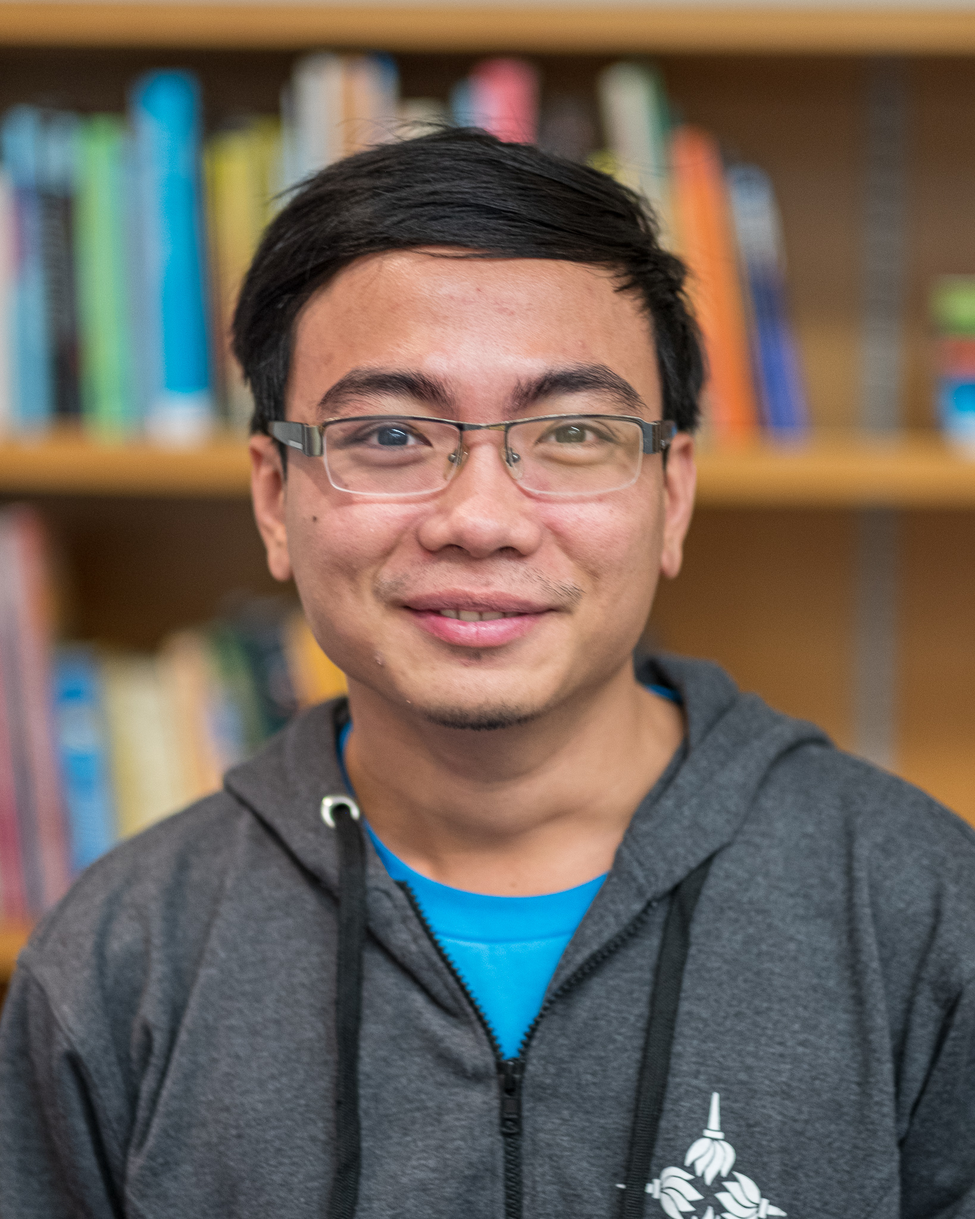
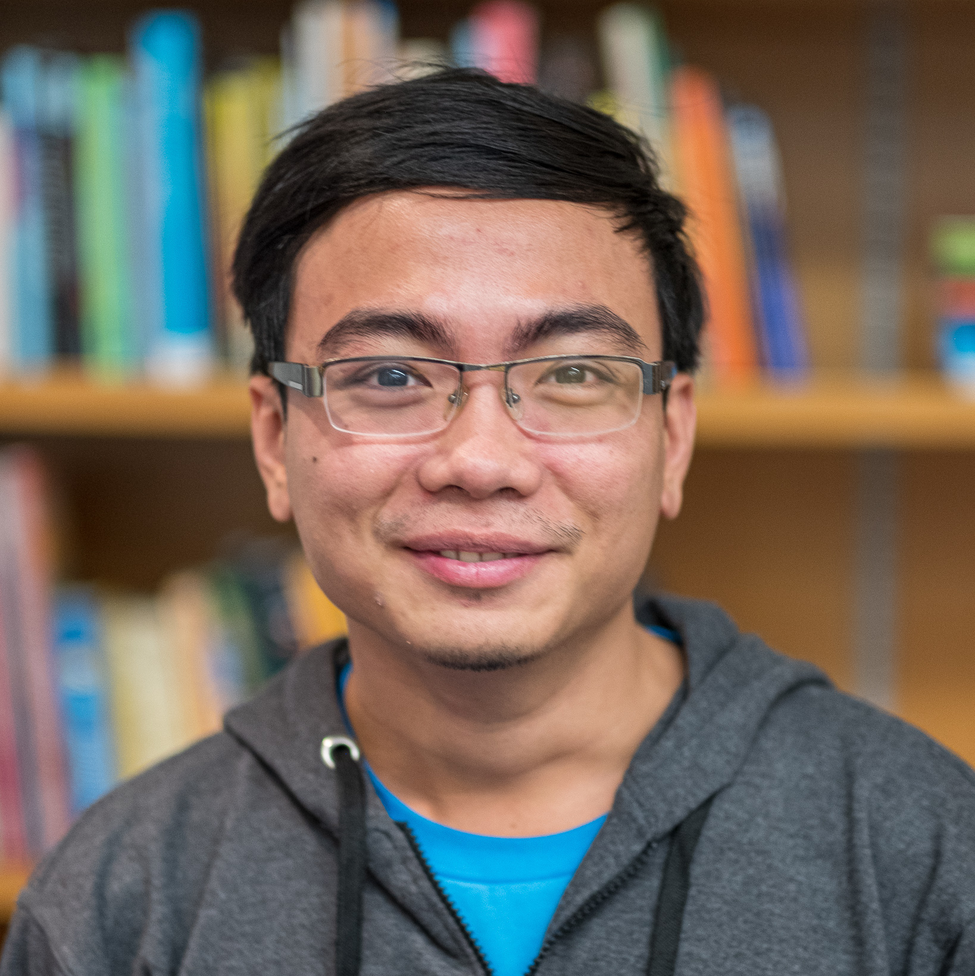
website update

diff --git a/projects.js b/projects.js
@@ -2,6 +2,7 @@ var projects = [
     {
         id: 14,
         title: "Synner",
+        status: "active",
         subtitle: "Generating Realistic Synthetic Data",
         authors: ["Miro Mannino", "Azza Abouzied"],
         members: [0, 3, 6, 7, 10, 14],
@@ -37,6 +38,7 @@ var projects = [
     },
     {
         id: 13,
+        status: "active",
         title: "Scalable Package Queries",
         subtitle: "Scaling package queries over probabilistic databases",
         authors: ["Matteo Brucato", "Peter Haas", "Alexandra Meliou", "Azza Abouzied"],
@@ -71,6 +73,7 @@ var projects = [
     },
     {
         id: 16,
+        status: "archive",
         title: "Texture",
         subtitle: "A Collaborative Framework for Structure Identification over Print Documents",
         authors: ["Maeda Hanafi", "Miro Mannino", "Azza Abouzied"],
@@ -92,6 +95,7 @@ var projects = [
 
     {
         id: 12,
+        status: "archive",
         title: "Qetch",
         subtitle: "Expressive Time Series Querying with Hand-Drawn Scale-Free Sketches",
         authors: ["Miro Mannino", "Azza Abouzied"],
@@ -121,6 +125,7 @@ var projects = [
     },
     {
         id: 11,
+        status: "archive",
         title: "SEER",
         subtitle: "Auto-Generating Information Extraction Rules from User-Specified Examples.",
         authors: ["Maeda Hanafi", "Azza Abouzied", "Laura Chiticariu", "Yunyao Li"],
@@ -158,26 +163,27 @@ var projects = [
     teaserpic: "images/projects/health-diagnosis.png",
     thumbnail: "images/projects/health-diagnosis-thumb.png"
 },
-    {
-        id: 9,
-        title: "Teaching Query Languages",
-        subtitle: "Using Visual Query Plans and Data to Explain Relational and Graph Queries",
-        authors: ["Yousra Hassan", "Miro Mannino", "Azza Abouzied", "Semih Salihoglu"],
-        links: [
-            {
-                txt: "Tech Report Available on Request",
-                ref: "mailto:azza@nyu.edu"
-            },
-        ],
-        abstract: "We build an educational tool to help students understand relational (SQL) and graph (SPARQL) query language students. The tool creates interactive query plan visualizations and demonstrates the behavior of query operators through intermediate results. The tool integrates into Jupyter Notebook to allow educators to utilize our tool within a commonly used teaching and code-demonstration framework.",
-        teaserpic: "images/projects/queryplan-full.png",
-        thumbnail: "images/projects/queryplan.png"
-    },
+    // {
+    //     id: 9,
+    //     title: "Teaching Query Languages",
+    //     subtitle: "Using Visual Query Plans and Data to Explain Relational and Graph Queries",
+    //     authors: ["Yousra Hassan", "Miro Mannino", "Azza Abouzied", "Semih Salihoglu"],
+    //     links: [
+    //         {
+    //             txt: "Tech Report Available on Request",
+    //             ref: "mailto:azza@nyu.edu"
+    //         },
+    //     ],
+    //     abstract: "We build an educational tool to help students understand relational (SQL) and graph (SPARQL) query language students. The tool creates interactive query plan visualizations and demonstrates the behavior of query operators through intermediate results. The tool integrates into Jupyter Notebook to allow educators to utilize our tool within a commonly used teaching and code-demonstration framework.",
+    //     teaserpic: "images/projects/queryplan-full.png",
+    //     thumbnail: "images/projects/queryplan.png"
+    // },
     {
         id: 8,
+        status: "active",
         title: "Epidemic Interventions",
-        subtitle: "Epidemic Policy Optimizations to Control Epidemic Outbreaks",
-        authors: ["Anh Mai","Dennis Shasha", "Azza Abouzied"],
+        subtitle: "Policy Optimization to Control Epidemic Outbreaks",
+        authors: ["Anh Mai", "Zain Tariq", "Dennis Shasha", "Azza Abouzied"],
         links: [
             {
                 txt: "Tech Report Available on Request",
@@ -187,5 +193,70 @@ var projects = [
         abstract: "In a stochastic partially-observable environment, an agent faces the dilemma of exploration and exploitation to make a decision in order to optimize a particular reward function. Policy optimization maps a certain state of environment to a decision that optimizes the outcome of the environment. Various attempts have been made in devising such policy using well-known techniques such as Partially Observable Markov Decision Process (POMDP) or Monte Carlo Tree Search (MCTS). Using these techniques, we hope to find an algorithm to approximate an optimal policy in a simulated epidemic scenario. We focus on influenza pandemics on the US popu- lation.",
         teaserpic: "images/projects/epidemic-intervention.png",
         thumbnail: "images/projects/epidemic-intervention-thumb.png"
-    }
+    },
+    {
+        id: 21,
+        status: "active",
+        title: "Hill and Dale",
+        subtitle: "Streaming queries with AQuery",
+        authors: ["Ahmad Chatha", "Kostas Zoumbatianos", "Dennis Shasha", "Azza Abouzied"],
+        links: [
+            {
+                txt: "Tech Report Available on Request",
+                ref: "mailto:azza@nyu.edu"
+            },
+        ],
+        abstract: "",
+        teaserpic: "",
+        thumbnail: ""
+    },
+    {
+        id: 23,
+        status: "active",
+        title: "Validating Generative Models",
+        subtitle: "Evaluating the realism of synthetic data sets generated by GANs and language models",
+        authors: ["Miro Mannino", "Ofer Mendelevitch", "Azza Abouzied"],
+        links: [
+            {
+                txt: "Tech Report Available on Request",
+                ref: "mailto:azza@nyu.edu"
+            },
+        ],
+        abstract: "",
+        teaserpic: "",
+        thumbnail: ""
+    },
+    {
+        id: 9,
+        status: "active",
+        title: "Impact3D",
+        subtitle: "Visualizing the impact of Charitable Donations with Augmented Reality",
+        authors: ["Lauren McMillen", "Azza Abouzied"],
+        links: [
+            {
+                txt: "Tech Report Available on Request",
+                ref: "mailto:azza@nyu.edu"
+            },
+        ],
+        abstract: "",
+        teaserpic: "",
+        thumbnail: ""
+    },
+    {
+        id: 17,
+        status: "active",
+        title: "CREST",
+        subtitle: "A Collaborative Real Estate Search Tool",
+        authors: ["Junior Garcia", "Azza Abouzied"],
+        links: [
+            {
+                txt: "Tech Report Available on Request",
+                ref: "mailto:azza@nyu.edu"
+            },
+        ],
+        abstract: "",
+        teaserpic: "",
+        thumbnail: ""
+    },
+
 ];

diff --git a/index.html b/index.html
@@ -28,13 +28,17 @@
         var display_members = function(){
             var o = '<div class = "members">';
             $.each(members, function (i, d) {
-                if(d.type != "undergrad" || d.year > 2019)
+                if(d.type == "RA" || d.type == "PI" || d.year > 2020)
                     o += toImage(d);
             });
             o += '</div>';
             o += '<div> Past Students </div><div><ul>';
             $.each(members, function (i, d) {
-                if(d.type == "undergrad" && d.year <= 2019)
+                if(d.type == "phd" && d.year <= 2020)
+                    o += '<li><strong>Phd Graduate:</strong> Dr. ' + d.name + '</li>';
+            });
+            $.each(members, function (i, d) {
+                if(d.type == "undergrad" && d.year <= 2020)
                     o += '<li>' + d.name + '</li>';
             });
             o += '</ul></div>';
@@ -44,23 +48,47 @@
         var display_projects = function(){
             var o = '<div class = "projects">';
             $.each(projects, function (i, d) {
-                var p = '<div class="project">'
-                    + '<div class="project-image" style="border-color: whitesmoke">'
-                    + '<a href="project.html?project-id=' + d.id + '"><img class="project-img" src="' + d.thumbnail + '"></a>'
-                    + '</div>'
-                    + '<div class="project-content">'
-                    + '<div class="project-title">' + d.title + "</div>"
-                    + d.subtitle
-                    + '<div class="authors">' + d.authors[0].substring(d.authors[0].indexOf(" "));
-                $.each(d.authors, function(i,a){
-                    p += ((i > 0)? ", " + a.substring(a.indexOf(" ")): "");
-                });
-                p += "</div>"
-                    + '</div>'
-                    + '</div>';
-                o += p;
+                if(d.status == "active") {
+                    var p = '<div class="project">'
+                        + '<div class="project-image" style="border-color: white">'
+                        + '<a href="project.html?project-id=' + d.id + '"><img class="project-img" src="' + d.thumbnail + '"></a>'
+                        + '</div>'
+                        + '<div class="project-content">'
+                        + '<div class="project-title">' + d.title + "</div>"
+                        + d.subtitle
+                        + '<div class="authors">' + d.authors[0].substring(d.authors[0].indexOf(" "));
+                    $.each(d.authors, function (i, a) {
+                        p += ((i > 0) ? ", " + a.substring(a.indexOf(" ")) : "");
+                    });
+                    p += "</div>"
+                        + '</div>'
+                        + '</div>';
+                    o += p;
+                }
             });
             o += '</div>';
+            o += '<dIV class = "projects"> <h3>ARCHIVE</h3> <BR>';
+            $.each(projects, function (i, d) {
+                if(d.status == "archive") {
+                    var p = '<div class="project">'
+                        + '<div class="project-image" style="border-color: whitesmoke">'
+                        + '<a href="project.html?project-id=' + d.id + '">'
+                        +  (d.thumbnail != "" ? '<img class="project-img" src="' + d.thumbnail + '">' : '') + '</a>'
+                        + '</div>'
+                        + '<div class="project-content">'
+                        + '<div class="project-title">' + d.title + "</div>"
+                        + d.subtitle
+                        + '<div class="authors">' + d.authors[0].substring(d.authors[0].indexOf(" "));
+                    $.each(d.authors, function (i, a) {
+                        p += ((i > 0) ? ", " + a.substring(a.indexOf(" ")) : "");
+                    });
+                    p += "</div>"
+                        + '</div>'
+                        + '</div>';
+                    o += p;
+                }
+            });
+            o += '</div>'
             $('#projects').html(o);
         };
 

diff --git a/members.js b/members.js
@@ -19,15 +19,35 @@ var members =  [
         type: "RA"
     },
     {
-        id: 20,
-        name: "Hashim Hayat",
+        id: 4,
+        name: "Anh Mai",
         title: "Research Assistant",
-        type: "RA",
-        year: "2020",
-        image: "images/members/hashim.jpg",
-        email: "hh1316@nyu.edu",
-        website: "https://hashimhayat.com",
+        image: "images/members/anh.jpg",
+        email: "alm818@nyu.edu",
+        website: "",
+        year: 2020,
+        type : "RA"
     },
+    {
+        id: 21,
+        name: "Zain Tariq",
+        title: "Research Assistant",
+        image: "images/members/zain.jpg",
+        email: "zain.tariq@nyu.edu",
+        website: "",
+        year: 2020,
+        type : "RA"
+    },
+    // {
+    //     id: 20,
+    //     name: "Hashim Hayat",
+    //     title: "Research Assistant",
+    //     type: "RA",
+    //     year: "2020",
+    //     image: "images/members/hashim.jpg",
+    //     email: "hh1316@nyu.edu",
+    //     website: "https://hashimhayat.com",
+    // },
     {
         id: 2,
         name: "Ahmad S Chatha",
@@ -42,7 +62,7 @@ var members =  [
         id: 19,
         name: "Matteo Brucato",
         title: "PhD Candidate - UMass",
-        year: "2020",
+        year: "2021",
         type: "phd",
         image: "images/members/matteo.png",
         email: "matteo@cs.umass.edu",
@@ -58,15 +78,24 @@ var members =  [
         email: "mh4047@nyu.edu",
         website: "https://maeda.herokuapp.com/",
     },
+
     {
-        id: 4,
-        name: "Anh Mai",
+      id: 19,
+      name: "Junior Garcia",
+      title: "Student Researcher",
+      image: "images/members/junior.jpg",
+      email: "jfg388@nyu.edu",
+      year: 2021,
+      type: "undergrad",
+    },
+    {
+        id: 20,
+        name: "Lauren McMillen",
         title: "Student Researcher",
-        image: "images/members/anh.jpg",
-        email: "alm818@nyu.edu",
-        website: "",
-        year: 2020,
-        type : "undergrad"
+        image: "images/members/lauren.jpg",
+        email: "lm3623@nyu.edu",
+        year: 2021,
+        type: "undergrad",
     },
     {
         id: 5,

diff --git a/news.js b/news.js
@@ -1,5 +1,24 @@
 var news =  [
     {
+        headline: "Azza Abouzied, Sihem Amer-Yahia (Univ. Grenoble Alpes) & Zachary Ives (UPenn) " +
+            "are organizing HILDA 2020 @ SIGMOD 2020",
+        link: "http://hilda.io",
+        abstract: "",
+        date: "June 19, 2020",
+    },
+    {
+        headline: "Miro Mannino demoed Synner at SIGMOD 2020",
+        link: "https://www.youtube.com/watch?v=6W99fj9bB0U",
+        abstract: "",
+        date: "June 18, 2020",
+    },
+    {
+        headline: "Matteo Brucato presented our on work on Stochastic Package Queries @SIGMOD 2020",
+        link: "https://www.youtube.com/watch?v=UrEOEplK06I",
+        abstract: "",
+        date: "June 17, 2020",
+    },
+    {
         headline: "Maeda Hanafi has successfully defended her PhD thesis. Congrats Dr. Hanafi!",
         link: "",
         abstract: "",

diff --git a/styles.css b/styles.css
@@ -205,7 +205,7 @@ div.member {
 }
 
 .member-img {
-  width: 200px;
+  width: 160px;
   filter: grayscale(100%);
   opacity: 0.9;
 }
